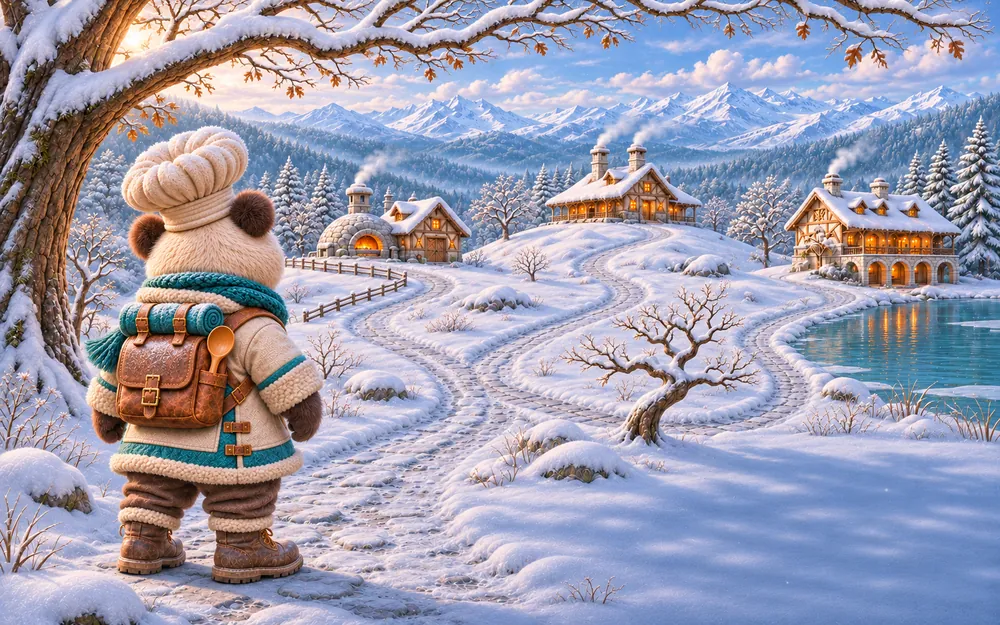
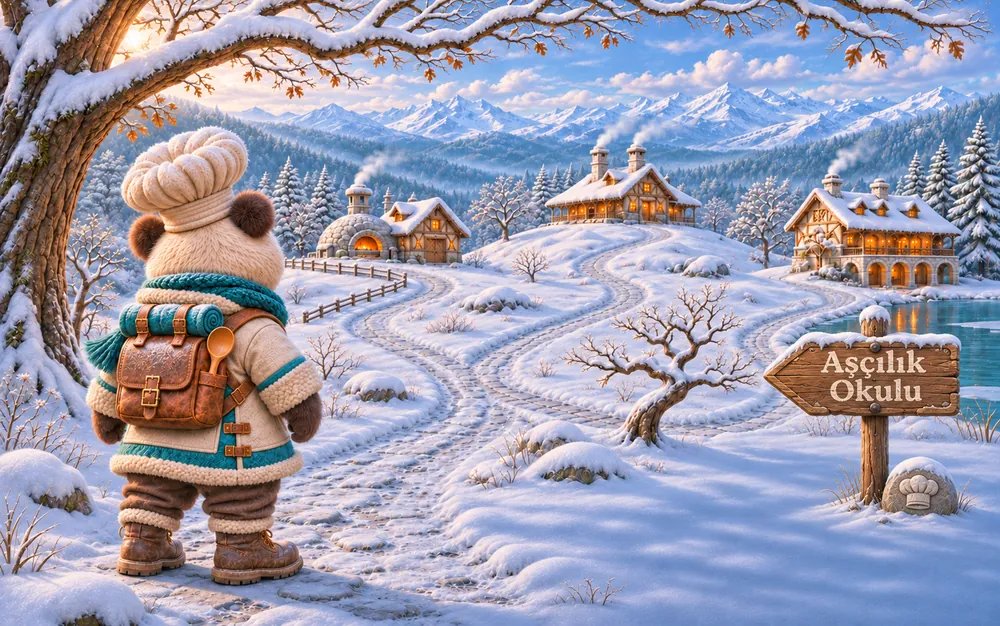
Yolculuğum: tabelalı mevsim sahneleri; alt yazı ve düğme tabelanın solunda
Claude-Session: https://claude.ai/code/session_01KZTyV4wnYY1yQCUsBrE7NW

diff --git a/sw.js b/sw.js
@@ -1,5 +1,5 @@
 /* © 2026 Ali Arıkoğlu. Tüm hakları saklıdır. */
-const CACHE='mesleki-oyunlar-v187-denetim-20261117';
+const CACHE='mesleki-oyunlar-v188-tabela-20261117';
 const CORE=["assets/yazi/inknut-antiqua-latin-800-normal.woff2", "assets/yazi/inknut-antiqua-latin-ext-800-normal.woff2", "assets/arayuz/uzun-dugme.webp", "assets/arayuz/kursu-yaz.webp", "assets/arayuz/kursu-kis.webp", "assets/arayuz/kursu-bos.webp", "assets/arayuz/simge-nota.webp", "assets/arayuz/simge-arkadas.webp", "assets/arayuz/simge-ayar.webp", "assets/yazi/inknut-antiqua-latin-500-normal.woff2", "assets/yazi/inknut-antiqua-latin-700-normal.woff2", "assets/yazi/inknut-antiqua-latin-ext-500-normal.woff2", "assets/yazi/inknut-antiqua-latin-ext-700-normal.woff2", "css/arayuz.css", "assets/arayuz/adlevha-kis.webp", "assets/arayuz/adlevha-yaz.webp", "assets/arayuz/cerceve-kis.webp", "assets/arayuz/cerceve-yaz.webp", "assets/arayuz/deri-kis.webp", "assets/arayuz/deri-yaz.webp", "assets/arayuz/dugme-kis.webp", "assets/arayuz/dugme-yaz.webp", "assets/arayuz/kart-kis.webp", "assets/arayuz/kart-yaz.webp", "assets/arayuz/kurdele-kis.webp", "assets/arayuz/kurdele-yaz.webp", "assets/arayuz/serit-kis.webp", "assets/arayuz/serit-yaz.webp", "assets/arayuz/tomar-kis.webp", "assets/arayuz/tomar-yaz.webp", "assets/yolculuk/kart-kis.webp", "assets/yolculuk/kart-ilkbahar.webp", "assets/yolculuk/kart-yaz.webp", "assets/yolculuk/kart-sonbahar.webp", "assets/lonca/portre-halka.webp", "js/sahne-ana.js", "css/sahne-ana.css", "assets/sahne/yaprak-1.webp", "assets/sahne/yaprak-2.webp", "assets/sahne/yaprak-3.webp", "assets/sahne/yaprak-4.webp", "assets/ascidostum/panda-poz/panda-bekliyor.webp", "assets/ascidostum/panda-poz/panda-goz-kirpma.webp", "assets/ascidostum/panda-poz/panda-mutlu.webp", "assets/ascidostum/panda-poz/panda-sevincli.webp", "assets/ascidostum/panda-poz/panda-ekranin-sagina-bakiyor.webp", "assets/ascidostum/panda-poz/panda-ekranin-soluna-bakiyor.webp", "assets/ascidostum/panda-poz/panda-saklanip-bakiyor.webp", "assets/ascidostum/panda-poz/panda-dusunuyor.webp", "assets/ascidostum/panda-poz/panda-uyukluyor.webp", "assets/ascidostum/panda-poz/panda-selam.webp", "js/lonca.js", "css/lonca.css", "assets/yazi/lonca-hikaye-bold.ttf", "assets/lonca/menu-armalari.png", "assets/lonca/yolculuk-panda-yol.webp", "js/ilk-profil.js", "js/mola.js", "js/seviye.js", "js/mac-devam.js", "js/ayarlar.js", "js/blitz.js", "js/sonuc-ekrani.js", "js/lig-menu.js", "js/antrenman.js", "js/er-meydani-sade.js", "js/sade-ekranlar.js", "js/oyuncu-cikar.js", "js/ust-cubuk.js", "css/ust-cubuk-tek.css", "js/hizli-ses.js", "js/asama.js", "js/arac-soru.js", "css/arac-soru.css", "js/baharat-rafi.js", "css/baharat-rafi.css", "js/ses-ustasi.js", "js/ses-yonetici.js", "js/pastacilik-ilk.js", "css/pastacilik-ilk.css", "js/lobi.js", "js/yasal.js", "js/yasal-kapi.js", "css/yasal.css", "js/bilgi.js", "js/aktarma.js", "js/hesabim.js", "js/ana-ekran.js", "js/oto-guncelle.js", "js/aksan.js", "js/yol-ses.js", "js/ad-onay.js", "css/kum.css", "css/aksan.css", "css/yazi.css", "css/yazi-boyutu.css", "assets/yazi/lexend-var.woff", "js/kaptan.js", "js/yol.js", "js/lezzet.js", "js/kaydirma.js", "js/sifirla.js", "css/yol.css", "css/lezzet.css", "css/ana-ekran.css", "css/ust-cubuk.css", "assets/ana-ekran/onayli-tasarim.png", "assets/ana-ekran/onayli-seffaf.png", "assets/ana-ekran/sicak-mutfak-koala.png", "assets/ana-ekran/panda-seffaf.png", "assets/ana-ekran/kitap-seffaf.png", "js/arena-model.js", "css/arena.css", "js/profil-oturum.js", "css/profil-oturum.css", "js/ses-giris.js", "js/dilara-hash.js", "js/dilara.js", "js/telif.js", "js/ses-soru.js", "js/haftalik.js", "js/rutbe.js", "js/rutbe-ui.js", "js/rekor-akis.js", "js/paket-ui.js", "css/paket.css", "assets/tasarim/sef-kepi.png", "assets/tasarim/sef-kepi-128.png", "js/rekor-baglanti.js", "js/rekor.js", "css/rekor.css", "css/sepya.css", "css/temalar.css", "js/tema-baslangic.js", "js/tasarim.js", "js/muzik.js", "js/ad-liste.js", "js/ad.js", "js/arkadas.js", "js/geri.js", "js/giris.js", "css/giris.css", "css/ad.css", "js/efekt.js", "js/kilavuz.js", "js/gezinme.js", "css/tasarim.css", "assets/tasarim/atolye.jpg", "assets/tasarim/konu-baharatlar.jpg", "assets/tasarim/konu-mutfak-araclari.jpg", "assets/tasarim/konu-kuver.jpg", "assets/tasarim/konu-bulasik.jpg", "assets/tasarim/konu-beslenme.jpg", "js/yaris-model.js", "js/yaris-ayar.js", "js/yaris-baglanti.js", "js/sonuc.js", "js/yaris.js", "js/ermeydani.js", "js/canavar.js", "css/yaris.css", "js/baharat-bilgi.js", "js/denetim-v10.js", "./", "index.html", "css/style.css", "css/platform.css", "js/core.js", "js/platform.js", "js/eslestirme.js", "js/sorular.js", "js/ses.js", "js/iyilestirme.js", "js/android.js", "css/android.css", "manifest.json", "icon-192.png", "icon-512.png", "content/kuver/icerik.json", "content/mutfak-araclari/icerik.json", "content/baharat/icerik.json", "content/beslenme-ilkeleri/icerik.json", "content/bulasik-makinesi-temizligi/icerik.json", "js/arac-gorselleri.js", "css/arac-gorselleri.css", "js/dost-gorev.js", "js/yanlislarim.js", "assets/ascidostum/ana-arkadas.webp", "assets/ascidostum/ana-atolye.webp", "assets/ascidostum/ana-birlikte.webp", "assets/ascidostum/ana-kitap.webp", "assets/ascidostum/ana-market.webp", "assets/ascidostum/ana-panda.webp", "assets/ascidostum/ana-panda-pastacilik.webp", "assets/ascidostum/ana-panda-sicak.webp", "assets/ascidostum/ana-panda-servis.webp", "assets/ascidostum/ana-rozet.webp", "assets/ascidostum/ana-siralama.webp", "assets/ascidostum/apple.webp", "assets/ascidostum/atolye.webp", "assets/ascidostum/ayran.webp", "assets/ascidostum/cake.webp", "assets/ascidostum/civciv.webp", "assets/ascidostum/dal-civciv-pasta.webp", "assets/ascidostum/dal-civciv-servis.webp", "assets/ascidostum/dal-civciv-sicak.webp", "assets/ascidostum/dal-geyik-pasta.webp", "assets/ascidostum/dal-geyik-servis.webp", "assets/ascidostum/dal-geyik-sicak.webp", "assets/ascidostum/dal-keci-pasta.webp", "assets/ascidostum/dal-keci-servis.webp", "assets/ascidostum/dal-keci-sicak.webp", "assets/ascidostum/dal-kedi-pasta.webp", "assets/ascidostum/dal-kedi-servis.webp", "assets/ascidostum/dal-kedi-sicak.webp", "assets/ascidostum/dal-koala-pasta.webp", "assets/ascidostum/dal-koala-servis.webp", "assets/ascidostum/dal-koala-sicak.webp", "assets/ascidostum/dal-panda-pasta.webp", "assets/ascidostum/dal-panda-servis.webp", "assets/ascidostum/dal-panda-sicak.webp", "assets/ascidostum/dal-papagan-pasta.webp", "assets/ascidostum/dal-papagan-servis.webp", "assets/ascidostum/dal-papagan-sicak.webp", "assets/ascidostum/dal-pasta.webp", "assets/ascidostum/dal-penguen-pasta.webp", "assets/ascidostum/dal-penguen-servis.webp", "assets/ascidostum/dal-penguen-sicak.webp", "assets/ascidostum/dal-rabbit-pasta.webp", "assets/ascidostum/dal-rabbit-servis.webp", "assets/ascidostum/dal-rabbit-sicak.webp", "assets/ascidostum/dal-servis.webp", "assets/ascidostum/dal-sicak.webp", "assets/ascidostum/kaptan-tac.webp", "assets/ascidostum/kitap-beslenme-tabak.webp", "assets/ascidostum/kitap.webp", "assets/ascidostum/koala-pastacilik.webp", "assets/ascidostum/koala-servis.webp", "assets/ascidostum/koala.webp", "assets/ascidostum/konu-araclar.webp", "assets/ascidostum/konu-baharat.webp", "assets/ascidostum/konu-bulasik.webp", "assets/ascidostum/konu-kuver.webp", "assets/ascidostum/kuver.webp", "assets/ascidostum/lemon.webp", "assets/ascidostum/milk.webp", "assets/ascidostum/panda-bas.webp", "assets/ascidostum/panda-biber.webp", "assets/ascidostum/panda-kart-dikey.webp", "assets/ascidostum/panda-kart.webp", "assets/ascidostum/panda-kek.webp", "assets/ascidostum/panda-krem.webp", "assets/ascidostum/panda-krema.webp", "assets/ascidostum/panda-limon.webp", "assets/ascidostum/panda-selam.webp", "assets/ascidostum/panda-serit.webp", "assets/ascidostum/panda-su.webp", "assets/ascidostum/panda.webp", "assets/ascidostum/servant.webp", "assets/ascidostum/sicak-mutfak.webp", "assets/ascidostum/tarif-mercimek.webp", "assets/ascidostum/tarif-omlet.webp", "assets/ascidostum/tarif-sebze.webp", "assets/ascidostum/tavsan-bas.webp", "assets/ascidostum/tavsan-biber.webp", "assets/ascidostum/tavsan-kek.webp", "assets/ascidostum/tavsan-kola.webp", "assets/ascidostum/tavsan-krem.webp", "assets/ascidostum/tavsan-limon.webp", "assets/ascidostum/tavsan-selam.webp", "assets/ascidostum/tavsan-serit.webp", "assets/ascidostum/tavsan-su.webp", "assets/ascidostum/tavsan.webp", "assets/ascidostum/yogurt.webp"];
 /* Ders varlıkları (13.11): fotoğraf, ses ve müzik sürümden bağımsız ayrı önbellekte durur; güncellemede silinmez.
    Eski sürüm önbelleğindeki varlıklar etkinleşmeden önce buraya taşınır. Ağ varsa her zaman yeni dosya alınır. */

diff --git a/js/lonca.js b/js/lonca.js
@@ -15,7 +15,7 @@ function ico(k){return '<svg viewBox="0 0 24 24" aria-hidden="true" fill="none" 
   const name=st.guest?'Misafir':st.prof?adRest(st.prof):'Karakterini seç';
   const selected=dostSecili(),branch=ls('ana_yol','sicak');
   const scene=selected==='panda'?A+'yolculuk-panda-yol.webp':'assets/ascidostum/ana-'+(selected==='rabbit'?'tavsan':selected)+'-'+(branch==='pasta'?'pastacilik':branch==='servis'?'servis':'sicak')+'.webp';
-  return '<div class="lc-home"><header class="lc-header lc-paper"><button class="lc-profile" type="button" onclick="anaProfil()" aria-label="'+esc(name)+'. Profil ve oyuncu kodu"><span class="lc-avatar">'+portrait()+'</span><strong class="lc-title">'+esc(name)+'</strong></button><button class="lc-tool" type="button" onclick="muzikAcKapa()" aria-label="Müzik: '+(MUZIK.acikMi()?'Açık':'Kapalı')+'" aria-pressed="'+MUZIK.acikMi()+'">'+ico('note')+'</button><button class="lc-tool" type="button" onclick="anaArkadas()" aria-label="Arkadaşlar">'+ico('friends')+'</button><button class="lc-tool" type="button" onclick="anaAyarlar()" aria-label="Ayarlar">'+ico('settings')+'</button></header><div class="lc-rank lc-paper">'+rank+'</div><button type="button" class="lc-journey" style="--lc-scene:url(\''+new URL(scene,document.baseURI).href+'\')" onclick="loncaYolAc()"><span class="lc-journey-copy"><strong class="lc-title lc-gizli">Yolculuğum</strong><span class="lc-yol-alt">Senin yolun, senin hikâyen.</span><span class="lc-yol-dugme">'+(yolDevam()?'Yolculuğa devam et':'Yolculuğa başla')+' <b aria-hidden="true">›</b></span></span></button><nav class="lc-grid" aria-label="Ana menü">'+card('dost','Aşçı Dostum','anaDostMutfak()',companion())+card('lig','Ustalar Ligi',"tasarimOda('create')",emblem(0))+card('sira','Sıralama','rkOpenBoard()',emblem(1))+card('rozet','Rozetlerim','loncaRozetAc()',emblem(2))+'</nav>'+automaticHelp()+'</div>';
+  return '<div class="lc-home"><header class="lc-header lc-paper"><button class="lc-profile" type="button" onclick="anaProfil()" aria-label="'+esc(name)+'. Profil ve oyuncu kodu"><span class="lc-avatar">'+portrait()+'</span><strong class="lc-title">'+esc(name)+'</strong></button><button class="lc-tool" type="button" onclick="muzikAcKapa()" aria-label="Müzik: '+(MUZIK.acikMi()?'Açık':'Kapalı')+'" aria-pressed="'+MUZIK.acikMi()+'">'+ico('note')+'</button><button class="lc-tool" type="button" onclick="anaArkadas()" aria-label="Arkadaşlar">'+ico('friends')+'</button><button class="lc-tool" type="button" onclick="anaAyarlar()" aria-label="Ayarlar">'+ico('settings')+'</button></header><div class="lc-rank lc-paper">'+rank+'</div><button type="button" class="lc-journey" style="--lc-scene:url(\''+new URL(scene,document.baseURI).href+'\')" onclick="loncaYolAc()"><span class="lc-journey-copy"><strong class="lc-title lc-gizli">Yolculuğum</strong><span class="lc-yol-alt">Senin yolun,<br>senin hikâyen.</span><span class="lc-yol-dugme">'+(yolDevam()?'Yolculuğa devam et':'Yolculuğa başla')+' <b aria-hidden="true">›</b></span></span></button><nav class="lc-grid" aria-label="Ana menü">'+card('dost','Aşçı Dostum','anaDostMutfak()',companion())+card('lig','Ustalar Ligi',"tasarimOda('create')",emblem(0))+card('sira','Sıralama','rkOpenBoard()',emblem(1))+card('rozet','Rozetlerim','loncaRozetAc()',emblem(2))+'</nav>'+automaticHelp()+'</div>';
  };
  function automaticHelp(){
   if(!ls('lonca_yardim',true)||ls('lonca_yardim_goruldu',false)||!st.prof)return '';

diff --git a/css/arayuz.css b/css/arayuz.css
@@ -140,3 +140,9 @@ html[data-font=hikaye] body .lc-home :is(.lc-nameplate,.lc-profile strong,.lc-ra
 html body .lc-home .lc-grid .lc-card:nth-child(2) .lc-emblem{transform:none}
 html body .lc-home .lc-grid .lc-card:nth-child(4) .lc-emblem{transform:scale(1.12)!important}
 html body .lc-home .lc-grid .lc-card:nth-child(1) .lc-emblem{transform:none}
+/* Tabelalı sahneler: yazı ve düğme tabelanın solunda, yolun üstünde. */
+html body .lc-home .lc-journey-copy{padding:0 25% 4% 0!important}
+html body .lc-home .lc-journey-copy{padding:0 25.5% 4% 0!important}
+html body .lc-home .lc-yol-alt{white-space:normal!important;max-width:none;white-space:nowrap!important;text-align:right;line-height:1.25!important;font-size:calc(.7rem * var(--lc-textscale))!important}
+html body .lc-home .lc-yol-dugme{padding:5px 13px 6px!important;font-size:calc(.72rem * var(--lc-textscale))!important}
+@media (max-height:720px){html body .lc-home .lc-journey-copy{padding:0 28% 3% 0!important}html body .lc-home .lc-yol-alt{font-size:calc(.64rem * var(--lc-textscale))!important}html body .lc-home .lc-yol-dugme{font-size:calc(.68rem * var(--lc-textscale))!important;padding:4px 11px 5px!important}}
